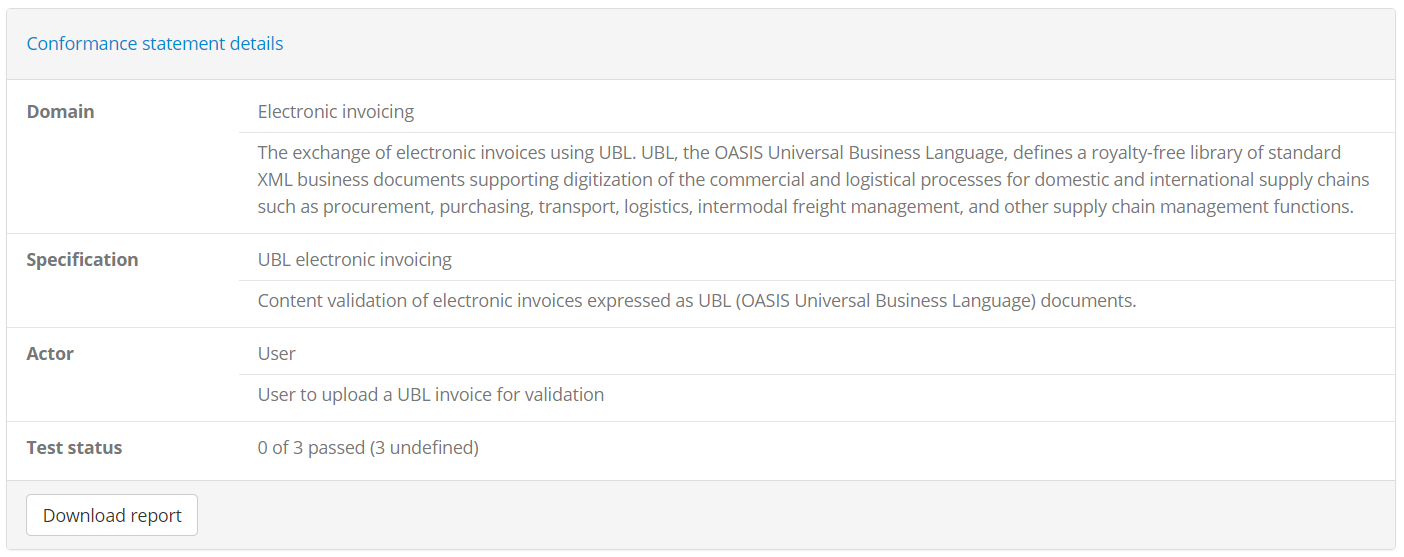
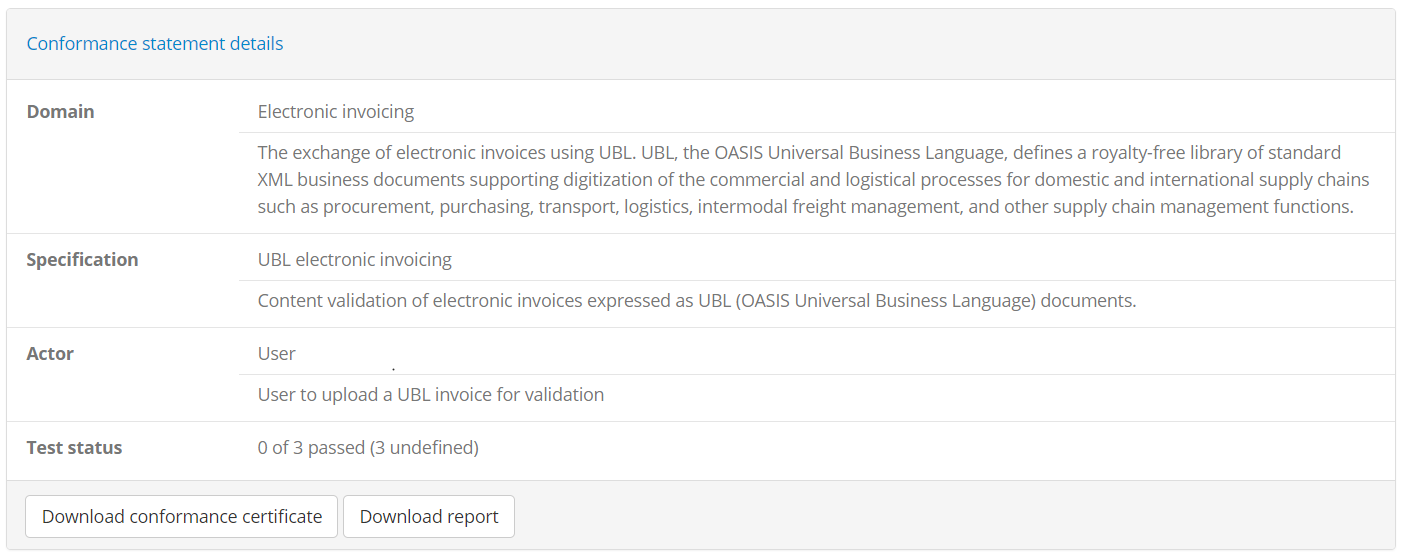
Update for release 1.10.0

Changed region(s): [[0.0306, 0.8851, 0.3675, 0.9767]]

diff --git a/source/conf.py b/source/conf.py
@@ -24,9 +24,9 @@ copyright = '2020, European Commission, DIGIT ISA'
 author = 'European Commission, DIGIT ISA'
 
 # The short X.Y version
-version = 'ITB version 1.9.1'
+version = 'ITB version 1.10.0'
 # The full version, including alpha/beta/rc tags
-release = 'ITB version 1.9.1'
+release = 'ITB version 1.10.0'
 
 html_show_sourcelink = False
 html_show_sphinx = False

diff --git a/source/changeHistory/index.rst b/source/changeHistory/index.rst
@@ -8,7 +8,67 @@ the following information is provided:
 * The **release summary**, describing briefly the main focus of the release and its key highlights.
 * The **release details**, listing the issues addressed in each release (bug fixes, new features and improvements).
 
-The latest test bed release is **1.9.1**.
+The latest test bed release is **1.10.0**.
+
+Release 1.10.0 - 07/09/2020
+---------------------------
+
+This releases provides community administrators with further flexibility on community customisation and its
+tailoring for their conformance testing strategy. This is achieved by means of new features on custom property management,
+advanced automation options through triggers, and the fine-tuning of self-registration requirements and user
+permissions. The management of test suites is also enhanced by enabling enhanced and bulk test suite uploads, and allowing
+administrators to edit online the documentation and metadata of test suites and test cases. These changes are 
+complemented by the latest improvements in the GITB Test Description Language, allowing flexibility in the loading of
+documentation and artefact resources, customisation of display labels, and a new logging step to add details to 
+test sessions' output.
+
+**Bug**
+
+* [ITB-519] - Multiple session invalid messages when session is invalidated
+* [ITB-599] - Sessions have a maximum global timeout of 1 hour regardless of activity
+* [ITB-655] - Interaction step requests fail if defined as empty (but not self-closed) elements
+* [ITB-656] - Test case descriptions in test execution page spanning multiple lines display with extra spacing.
+* [ITB-677] - Invalid test suite resource imports may succeed test suite validation
+* [ITB-681] - Warning message when copying a system's test configuration is not correct
+
+**New Feature**
+
+* [ITB-474] - Add logging element to GITB TDL
+* [ITB-591] - Replicate a test suite to other specifications
+* [ITB-592] - Allow online editing of a test suite's metadata
+* [ITB-593] - Choose whether a test suite upload should replace existing domain information
+* [ITB-594] - Allow documentation content in TDL steps to be imported from another resource in the test suite archive
+* [ITB-606] - Add support for the Expect-CT header
+* [ITB-648] - Support triggers for events within a community
+* [ITB-652] - Allow a community administrator to customise organisation administrator privileges
+* [ITB-653] - Allow organisation, system and conformance statement parameters to be set as hidden
+* [ITB-654] - Allow download of conformance certificate by organisation managers
+* [ITB-672] - Allow online editing of a test case's metadata
+* [ITB-675] - Upload test suite to multiple specifications
+* [ITB-679] - Support the definition of organisation and system properties to be passed to triggers
+* [ITB-685] - Preview custom property completion forms
+* [ITB-686] - Support variable references when importing artifacts in test cases
+* [ITB-687] - Support custom display titles for TDL steps
+* [ITB-691] - Support dependencies between conformance statements parameters
+* [ITB-692] - Support predefined values for conformance statement properties
+
+**Improvement**
+
+* [ITB-400] - Use an uploaded test suite's ID instead of its name to match existing test suites
+* [ITB-451] - Allow administrators to specify ordering for custom community properties
+* [ITB-596] - Allow a community administrator to set custom organisation properties used in self-registration as being mandatory and blocking
+* [ITB-598] - Allow a community administrator to require template selection during self-registration as a mandatory
+* [ITB-601] - Support predefined values for custom member properties
+* [ITB-602] - Support dependencies between custom member properties
+* [ITB-644] - Remove fields from the display of the test suite upload confirmation popup when empty
+* [ITB-647] - Make parameter definition through getModuleDefinition optional
+* [ITB-657] - Upgrade dependencies
+* [ITB-660] - Make default input sanitisation case insensitive
+* [ITB-663] - Allow customised configuration for the internal GITB DB user
+* [ITB-676] - Restrict data archive import file selection to ZIP archives
+* [ITB-678] - Complete security configuration of session cookies
+* [ITB-689] - Hide endpoint display in conformance statement details if there is only one endpoint
+* [ITB-690] - Hide endpoint description if empty
 
 Release 1.9.1 - 18/05/2020
 --------------------------

diff --git a/source/manageConformanceStatements/index.rst b/source/manageConformanceStatements/index.rst
@@ -66,8 +66,10 @@ The **domain** details are presented on the top as the high-level description of
 **specification** information follows to define the specification you have chosen for your system to conform to
 (a domain may have multiple specifications). The **actor** information defines the specific role your system is expected to fulfil
 as part of this specification (a specification may have multiple actors). The **test status** presents an overview of the testing
-progress for the conformance statement's test cases. Below this section you can also click the **Download report** button to export 
-your system's conformance statement report (see :ref:`manage_your_conformance_statements__view_a_conformance_statements_details__export`).
+progress for the conformance statement's test cases. Below this section you are presented with buttons for further actions as follows:
+
+* The **Download conformance certificate** button to generate a conformance certificate for your system (see :ref:`manage_your_conformance_statements__view_a_conformance_statements_details__export_certificate`).
+* The **Download report** button to export your system's current conformance statement report (see :ref:`manage_your_conformance_statements__view_a_conformance_statements_details__export`).
 
 .. _manage_your_conformance_statements__view_a_conformance_statements_details__endpoints:
 
@@ -86,9 +88,7 @@ Clicking on the **Hidden** toggle button on the right-hand side will set it to *
 .. figure:: ../screenshots/conformance_statement_details_endpoints.PNG
   :align: center
 
-The panel presented includes an **endpoint** name and its **description**. Configuration properties are always grouped under an **endpoint**
-which basically acts as a named set of properties (see the :ref:`introduction__glossary__endpoint` glossary information for details). Configuration
-properties are presented in rows where for each one the following information is presented:
+Configuration properties are presented in rows where for each one the following information is presented:
 
 * Whether or not it is **set**.
 * Its **parameter name**, serving as its identifier. This is prefixed with an asterisk if the parameter is mandatory.
@@ -227,6 +227,24 @@ and the results from each test step. The test case's title includes its referenc
     **Detailed report size:**  The detailed conformance statement report presents each test session and individual step in 
     a separate page. If your conformance statement contains numerous test cases, each with multiple test steps, the resulting detailed report 
     could be quite long.
+
+.. _manage_your_conformance_statements__view_a_conformance_statements_details__export_certificate:
+
+Export conformance certificate
+~~~~~~~~~~~~~~~~~~~~~~~~~~~~~~
+
+The conformance certificate is a report (in PDF format) that attests to the fact that your current system has successfully passed its expected test cases. The option
+to generate this is only visible if your system has succeeded in all configured tests. If this is the case and the option is still not visible, this means that your 
+community administrator has disabled this feature. In such a case you will need to contact your administrator to obtain it.
+
+Assuming the option is available for you, clicking the button will generate the certificate and prompt you for its download. The certificate will typically resemble the
+following sample:
+
+.. figure:: ../screenshots/conformance_statement_certificate_sample.png
+  :align: center
+
+The contents of the certificate are defined by your administrator and are a customisation of the :ref:`conformance statement report<manage_your_conformance_statements__view_a_conformance_statements_details__export>`.
+The certificate may omit certain sections, include a message for you, and potentially be digitally signed.
 
 .. _manage_your_conformance_statements__view_system_information:
 

diff --git a/source/login/index.rst b/source/login/index.rst
@@ -176,9 +176,9 @@ The information needed to complete this form is as follows:
 * **Password:** The password for the new administrator account that needs to also be confirmed.
 
 The **Organisation details** section may also include one or more additional properties that the community's administrator requires
-for completion during registration. These properties may be simple text values, secret values or files for you to upload, and may be 
-optional or required. Note that properties highlighted as required will not prevent you from completing the registration if you don't 
-supply them. These will need to be provided however before you can execute any tests.
+for completion during registration. These properties may be simple text values, values to select from preset lists, secret values or files for you to upload, and may be 
+optional or required. Properties marked as required must be provided before you can start executing tests, but depending on the 
+community's configuration, you may still be allowed to proceed with your registration without completing them.
 
 Once the information is provided click on **Register** to create your organisation and proceed to your landing page. Clicking
 on **Cancel** will return you back to the welcome page.